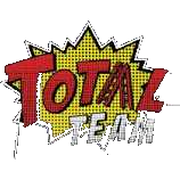
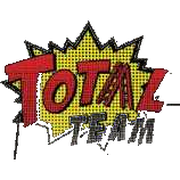
Logó: D változat a fejlécekben és fülikonon, E/F javított változatok előnézethez
Claude-Session: https://claude.ai/code/session_01Q1cxDRPZAJRxcz6MfezuuT

diff --git a/public/admin.html b/public/admin.html
@@ -134,7 +134,7 @@ table.sum td { padding: 8px 12px; border-bottom: 1px solid var(--border); vertic
 table.sum td.num { text-align: right; font-variant-numeric: tabular-nums; font-weight: 600; }
 .sum-wrap { overflow-x: auto; }
 
-.stock-logo { display: inline-flex; border-radius: 6px; overflow: hidden; height: 42px; border: 1px solid var(--border); transition: transform .15s, box-shadow .15s; }
+.stock-logo { display: inline-flex; align-items: center; border-radius: 6px; height: 42px; padding: 0 6px; transition: transform .15s, box-shadow .15s; }
 .stock-logo:hover { transform: translateY(-1px); box-shadow: var(--shadow); }
 .stock-logo img { height: 40px; width: auto; display: block; }
 
@@ -225,7 +225,7 @@ html, body { overflow-x: hidden; }
       </nav>
       <div class="head-right">
         <button class="btn small primary scan-open" id="scanOpen" type="button"><svg width="15" height="15" viewBox="0 0 24 24" fill="none" stroke="currentColor" stroke-width="2"><path d="M3 7V5a2 2 0 0 1 2-2h2M17 3h2a2 2 0 0 1 2 2v2M21 17v2a2 2 0 0 1-2 2h-2M7 21H5a2 2 0 0 1-2-2v-2"/><rect x="7" y="7" width="4" height="4"/><rect x="13" y="13" width="4" height="4"/><path d="M13 7h4v2M7 15v2h2"/></svg>Beolvasás</button>
-        <a class="stock-logo" href="/raktar.html" title="Raktárkészlet" aria-label="Raktárkészlet"><picture><source srcset="/img/total-team-logo.jpg" media="(prefers-color-scheme: dark)"><img src="/img/total-team-logo-light.jpg" alt="Total Team – raktárkészlet" width="44" height="41"></picture></a>
+        <a class="stock-logo" href="/raktar.html" title="Raktárkészlet" aria-label="Raktárkészlet"><picture><source srcset="/img/total-team-mark.png" media="(prefers-color-scheme: dark)"><img src="/img/total-team-mark-light.png" alt="Total Team – raktárkészlet" width="52" height="40"></picture></a>
         <a class="link-btn" href="/cimkek.html" target="_blank" rel="noopener">Címkék ↗</a>
         <button class="link-btn" id="logout" type="button">Kilépés</button>
       </div>

diff --git a/public/index.html b/public/index.html
@@ -57,7 +57,7 @@ h2.sec { font-family: var(--font-display); font-size: clamp(32px, 5vw, 52px); li
 .top.solid { background: var(--surface); border-color: var(--border); }
 .top-in { display: flex; align-items: center; gap: 24px; height: 64px; }
 .logo { font-family: var(--font-display); font-size: 21px; font-weight: 700; text-decoration: none; color: #fff; white-space: nowrap; }
-.top .logo img { height: 48px; width: auto; border-radius: 6px; }
+.top .logo img { height: 46px; width: auto; }
 .top .lg-light { display: none; }
 .top.solid .lg-dark, .top.open .lg-dark { display: none; }
 .top.solid .lg-light, .top.open .lg-light { display: block; }
@@ -222,7 +222,7 @@ footer a:hover { color: #fff; }
 
 <header class="top" id="top">
   <div class="wrap top-in">
-    <a class="logo" href="#"><img class="lg-dark" src="/img/total-team-logo.jpg" alt="Total Team – Set decoration and prop art" width="54" height="50"><img class="lg-light" src="/img/total-team-logo-light.jpg" alt="" width="54" height="50"></a>
+    <a class="logo" href="#"><img class="lg-dark" src="/img/total-team-mark.png" alt="Total Team" width="62" height="48"><img class="lg-light" src="/img/total-team-mark-light.png" alt="" width="62" height="48"></a>
     <nav class="nav" id="nav">
       <a href="#szolgaltatasok">Szolgáltatások</a>
       <a href="#munkaink">Munkáink</a>
@@ -359,7 +359,7 @@ footer a:hover { color: #fff; }
 
 <footer>
   <div class="wrap f-in">
-    <a class="logo" href="#">Total Team<span>.</span></a>
+    <a class="logo" href="#"><img src="/img/total-team-mark.png" alt="Total Team" width="52" height="40" style="height:40px;width:auto"></a>
     <nav><a href="#munkaink">Munkáink</a><a href="/raktar.html">Kellékraktár</a><a href="#kapcsolat">Kapcsolat</a><a href="/admin.html">Belső felület</a></nav>
     <span>© <span id="yr"></span> Total Team · Creativity and Innovation</span>
   </div>

diff --git a/public/raktar.html b/public/raktar.html
@@ -208,7 +208,7 @@ button { font-family: inherit; }
 <body>
 <header class="header">
   <div class="header-inner">
-    <div class="logo">Total Team<span>.</span> Raktár</div>
+    <a class="logo" href="/" style="display:flex;align-items:center;gap:8px;text-decoration:none;color:inherit"><picture><source srcset="/img/total-team-mark.png" media="(prefers-color-scheme: dark)"><img src="/img/total-team-mark-light.png" alt="Total Team" width="49" height="38" style="height:38px;width:auto;display:block"></picture>Raktár</a>
     <div class="search-wrap">
       <svg width="14" height="14" viewBox="0 0 24 24" fill="none" stroke="currentColor" stroke-width="2"><circle cx="11" cy="11" r="8"/><path d="m21 21-4.35-4.35"/></svg>
       <input id="search" type="search" placeholder="Keresés: név, kód, szín, anyag…" autocomplete="off">
